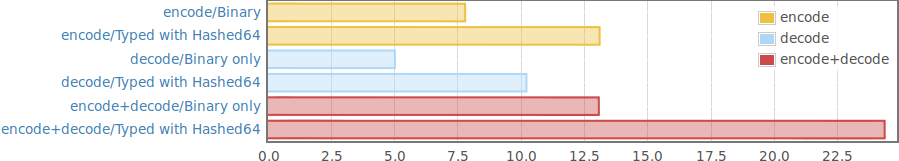
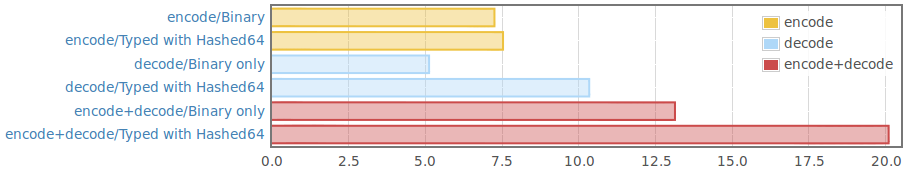
Fix caching not working in encodeTyped
The "let" was inside the lambda, requiring the type information to be
recalculated on each invocation. Using ScopedTypeVariables, this can be
floated out.

Changed region(s): [[0.0, 0.0, 1.0, 1.0]]

diff --git a/README.md b/README.md
@@ -19,11 +19,10 @@ a couple of key differences:
 - Error messages can provide details on type errors at the cost of
   longer message lengths to include the necessary information.
 
-- Serialization computationally reasonably efficient, as type
-  representations can be precached and don't need to be recalculated on
-  each serialization. Performance obviously depends a lot on the involved
-  types and serialization methods; an example benchmark is shown in the
-  picture below.
+- Serialization computationally almost as efficient as "Data.Binary" when
+  sharing type representations; decoding however is slower.
+  These values obviously depend a lot on the involved data and its type;
+  an example benchmark is shown in the picture below.
 
 - No depencency on `Internal` modules of other libraries, and a very small
   dependency footprint in general.

diff --git a/changelog.md b/changelog.md
@@ -31,9 +31,8 @@ Initial release.
 - Fix whitespace in docs to make the docs build properly on Hackage, which
   presumably has an older Haddock version
 
-### 0.2.0.2
+### 0.2.1.0
 
+- Fix sharing not working at all (bad `encodeTyped` implementation)
 - Pre-calculate certain functions in the benchmarks so they can be properly
   shared among invocations
-- Remove incorrect remark (from an earlier version) in the readme/.cabal about
-  encoding being almost identical in performance to direct `Binary`
